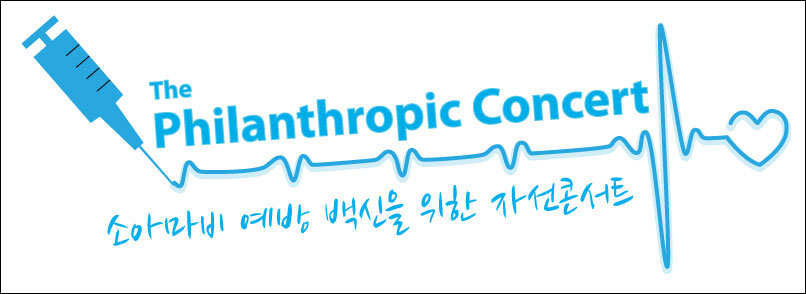
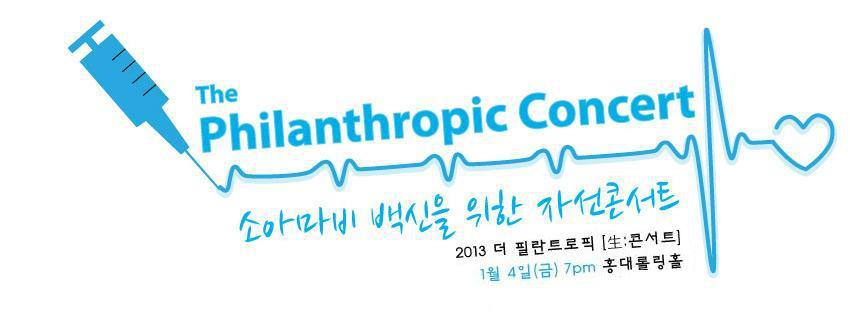
blah

Changed region(s): [[0.0, 0.0, 1.0, 1.0]]

diff --git a/projects/concert2013.php b/projects/concert2013.php
@@ -97,7 +97,7 @@
 
                 <div class="border"><h1>The Philanthropic Concert</h1></div>
 						
-				<div class="project-meta">날짜: <span>2013년 1월 4일 7:00 PM - 9:00 PM <br />장소: 홍대 롤링홀</span></div>
+				<div class="project-meta">날짜: <span>2013년 1월 4일 7:00 PM<br />장소: 홍대 롤링홀</span></div>
 
             </div>
 			
@@ -105,8 +105,8 @@
 			
 			<div class="text-center">
 				
-        <!-- <img src="../images/photo/concert2013.png" alt="" class="project-image-ncj" /> -->
-        <img src="../images/projects/concert2013/poster.jpg" />
+        <img src="../images/photo/concert2013.png" alt="" class="project-image-ncj" />
+        <!-- <img src="../images/projects/concert2013/poster.jpg" /> -->
 
 			</div>
 			
@@ -118,7 +118,7 @@
 				
 				<p><strong>날짜:</strong> 2013년 1월 4일 금요일</p>
 
-				<p><strong>시간:</strong> 7:00 PM - 9:00 PM </p>
+				<p><strong>시간:</strong> 7:00 PM</p>
 
 				<p><strong>장소:</strong> 홍대 롤링홀</p>
 
